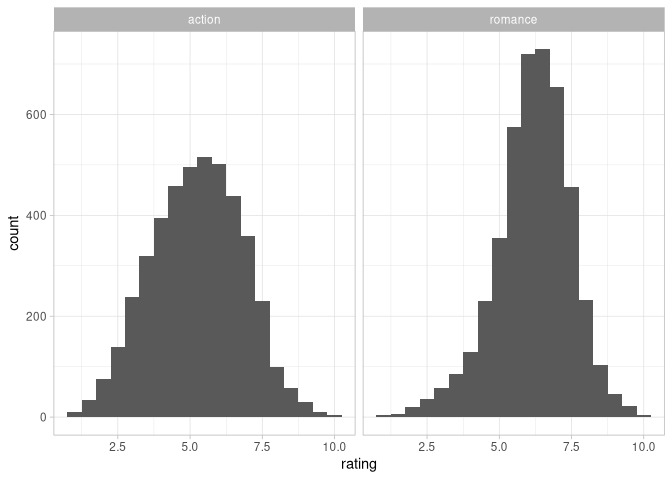
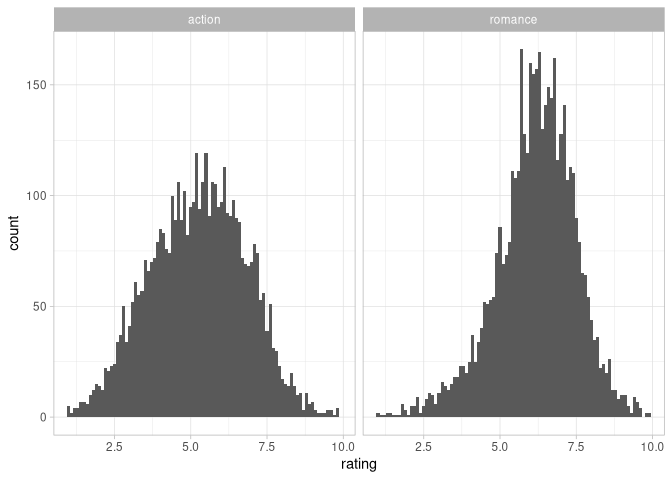
Chapter 9 done.

diff --git a/09_hypothesis_testing.md b/09_hypothesis_testing.md
@@ -123,7 +123,7 @@ null_distribution |>
     # A tibble: 1 × 1
       p_value
         <dbl>
-    1   0.073
+    1   0.069
 
 ``` r
 bootstrap_distribution <- 
@@ -140,7 +140,7 @@ percentile_ci
     # A tibble: 1 × 2
       lower_ci upper_ci
          <dbl>    <dbl>
-    1 -0.00334   0.0686
+    1 -0.00226   0.0708
 
 ``` r
 bootstrap_distribution |> 
@@ -365,7 +365,7 @@ null_distribution_movies |>
     # A tibble: 1 × 1
       p_value
         <dbl>
-    1   0.004
+    1  0.0028
 
 ``` r
 null_distribution_movies |> 
@@ -403,7 +403,7 @@ null_distribution_median |>
     # A tibble: 1 × 1
       p_value
         <dbl>
-    1   0.006
+    1   0.008
 
 ``` r
 null_distribution_median |> 
@@ -551,7 +551,7 @@ movies_action_romance |>
 # faceted histogram
 movies_action_romance |> 
   ggplot(aes(rating)) +
-  geom_histogram(binwidth = 0.5) +
+  geom_histogram(binwidth = 0.1) +
   facet_wrap(~ genre)
 ```
 
@@ -564,3 +564,41 @@ we could compare the the two samples directly to this extend. Though it
 should be noted that the size of these samples are around 4000 for each
 genre, or roughly 9000 in total. So this is not always feasible and we
 could approximate this with the resampling we did.
+
+#### T-test
+
+``` r
+movies_action_romance |> 
+  t_test(formula = rating ~ genre,
+         order = c("action", "romance"),
+         alternative = "two-sided")
+```
+
+    # A tibble: 1 × 7
+      statistic  t_df   p_value alternative estimate lower_ci upper_ci
+          <dbl> <dbl>     <dbl> <chr>          <dbl>    <dbl>    <dbl>
+    1     -30.3 8540. 6.41e-192 two.sided     -0.927   -0.987   -0.867
+
+``` r
+movies_sample |> 
+  t_test(formula = rating ~ genre,
+         order = c("Action", "Romance"),
+         alternative = "two-sided")
+```
+
+    # A tibble: 1 × 7
+      statistic  t_df p_value alternative estimate lower_ci upper_ci
+          <dbl> <dbl>   <dbl> <chr>          <dbl>    <dbl>    <dbl>
+    1     -2.91  65.8 0.00498 two.sided      -1.05    -1.77   -0.328
+
+##### !clarity
+
+9.7.1 Theory-based approach
+
+Based on the p-value = 0.005 we reject the null hypothesis, the average
+rating for the Romance movies is not the same as the average rating for
+the Action movies. This result is similar to the one calculated using
+the simulation-based approach.
+
+> In the sections before we set the significance level to 0.001. Which
+> would mean we do not reject the null hypotheses.
